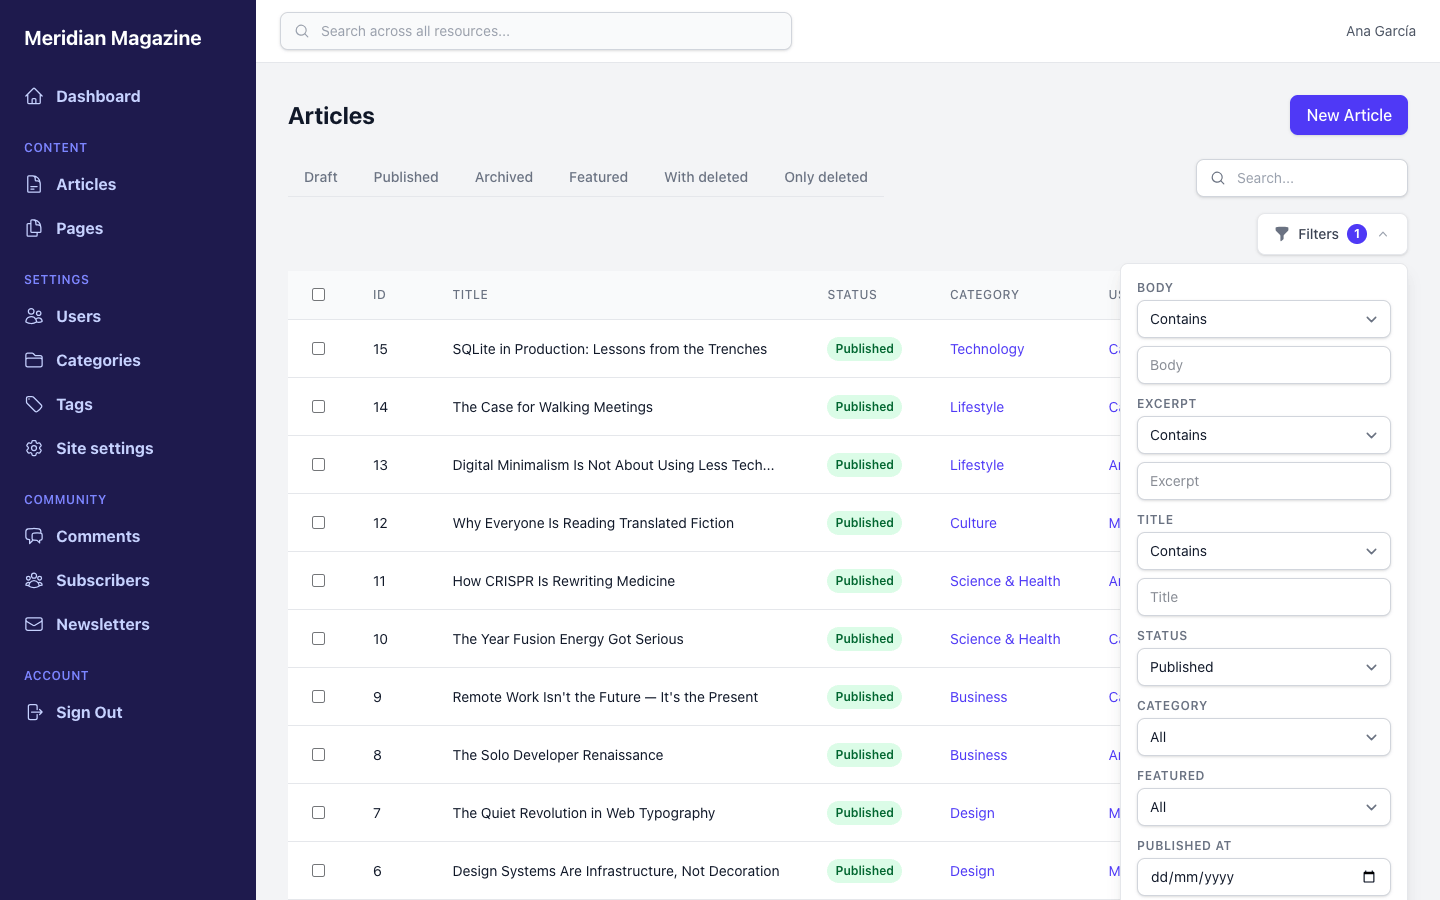
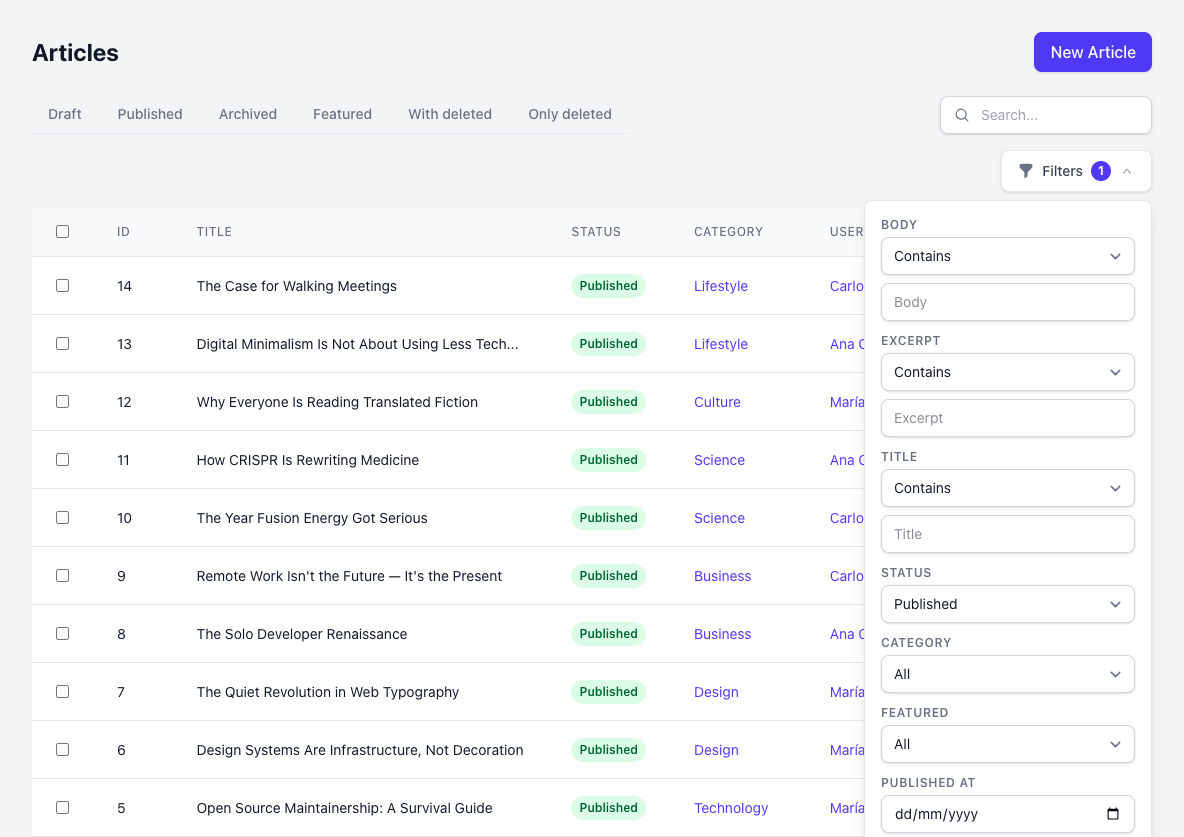
Fix README claims, guide links and screenshots
- The live demo is deployed separately and still runs an older
  IronAdmin, so the README no longer says it runs 0.7.0. The 0.7.0
  things to try moved to "Run it locally"; "Try it live" keeps only
  what works on the deployed demo today.
- Link the guides rendered on GitHub at the v0.7.0 tag instead of the
  docs site subpages, which are unstyled or stubs.
- Describe the filters inferred from the schema separately from the
  declared ones.
- Show the import upsert in the sample CSV with a seeded subscriber.
- Fix the deny_actions wording in "How it's built".
- Add MIT-LICENSE, matching the MIT claim in the README, and link it.
- Crop the screenshots so they stay legible at gallery size, retake the
  dashboard, articles and import preview from fresh seeds, and keep
  /docs/ out of the Docker image.

Claude-Session: https://claude.ai/code/session_015iW7QqdscMBUsp3fkDuszH

diff --git a/README.md b/README.md
@@ -27,7 +27,7 @@
   </a>
 </p>
 
-Meridian Magazine is a fictional online publication. Its whole admin, from the dashboard to the audit log, comes from IronAdmin 0.7.0 and about 390 lines of Ruby (blank lines and comments not counted): nine resource classes, one dashboard, one tool and an initializer. There are no admin controllers in this repository, and the only admin view is the Sign Out tool's page.
+Meridian Magazine is a fictional online publication. In this repository, its whole admin, from the dashboard to the audit log, comes from IronAdmin 0.7.0 and about 390 lines of Ruby (blank lines and comments not counted): nine resource classes, one dashboard, one tool and an initializer. There are no admin controllers in this repository, and the only admin view is the Sign Out tool's page.
 
 - [Try it live](#try-it-live)
 - [Screenshots](#screenshots)
@@ -43,6 +43,9 @@ Meridian Magazine is a fictional online publication. Its whole admin, from the d
 
 Open **[demo.ironadmin.rubylab.app](https://demo.ironadmin.rubylab.app/)** and pick a user. There are no passwords. Each user has a different role, so sign out (**Account → Sign Out** in the sidebar) and try the others.
 
+> [!NOTE]
+> The live demo is deployed separately from this repository (nothing deploys it on push), so it can run an older IronAdmin release than the code here. To see everything this README describes, [run it locally](#run-it-locally).
+
 | User | Role | Content<sup>1</sup> | Users | Site settings |
 |------|------|---------------------|-------|---------------|
 | **Ana García**<br>`ana@meridian.com` | `admin` | Full access | View, create, edit, delete, activate and deactivate | View and edit |
@@ -57,30 +60,20 @@ Every user can open the dashboard, the global search and the audit log at `/admi
 
 Things to try:
 
-- **Publish** or **Archive** an article. Publish asks for a date and whether to feature the article, Archive asks for a required note, and both changes show up in the audit log.
-- Select several comments and run **Bulk reject**, which asks for a rejection note.
-- Import subscribers from **Subscribers → Import**. The preview shows the column mapping and validates each row before anything is saved, and existing emails are updated instead of duplicated. A file like this one works:
-
-  ```csv
-  email,name,confirmed
-  lucia@example.com,Lucía Fernández,true
-  nadia@example.com,Nadia Rahman,false
-  ```
-
 - Type `title:rails` in the Articles search box to search one field, or search every resource from the navbar.
-- Sign in as María and open **Users**: there is no **New User** button, and `/admin/users/new` shows a 403 page inside the admin.
-- Narrow the window below 1024 px to get the off-canvas sidebar.
+- Open the **With deleted** and **Only deleted** tabs on Articles or Comments to see soft-deleted records.
+- Download the subscriber list from `/admin/subscribers/export?format=csv` (or `?format=json`).
 
 ## Screenshots
 
 <table>
   <tr>
     <td width="50%" valign="top">
-      <img src="docs/screenshots/articles-index-filters.png" alt="Articles index with scope tabs (Draft, Published, Archived, Featured, With deleted, Only deleted), green Published status badges, category links and the filter panel open with Contains operators and a Status filter set to Published">
+      <img src="docs/screenshots/articles-index-filters.png" alt="Articles index with scope tabs (Draft, Published, Archived, Featured, With deleted, Only deleted), green Published status badges, category links and the filter panel open: Body, Excerpt and Title filters with Contains operators and a Status filter set to Published">
       <br><sub><b>Articles:</b> scope tabs, status badges and operator filters</sub>
     </td>
     <td width="50%" valign="top">
-      <img src="docs/screenshots/subscribers-import-preview.png" alt="Preview Subscribers Import page: 3 rows detected, a column mapping of email, name and confirmed, and a table of three valid rows with an Import 3 rows button">
+      <img src="docs/screenshots/subscribers-import-preview.png" alt="Preview Subscribers Import page: 3 rows detected, a column mapping of email, name and confirmed, an Import 3 rows button and a table of three valid rows, the last one for new.reader1@gmail.com, a subscriber that already exists and will be updated">
       <br><sub><b>Import preview:</b> column mapping and per-row validation before saving</sub>
     </td>
   </tr>
@@ -99,11 +92,11 @@ Things to try:
 
 ## What this demo shows
 
-Everything below is configured in this repository. Each section starts with links to the IronAdmin guides that cover it.
+Everything below is configured in this repository. Each section starts with links to the IronAdmin guides that cover it, as of the `v0.7.0` tag.
 
 ### Resources and fields
 
-[Fields guide](https://rubylab-app.github.io/iron_admin/guides/fields/) · [Resource DSL: fields](https://rubylab-app.github.io/iron_admin/guides/resource-dsl/#fields)
+[Fields guide](https://github.com/rubylab-app/iron_admin/blob/v0.7.0/docs/guides/fields.md) · [Resources guide: fields](https://github.com/rubylab-app/iron_admin/blob/v0.7.0/docs/guides/resources.md#fields)
 
 | Feature | Where in the demo |
 |---------|-------------------|
@@ -122,15 +115,16 @@ Everything below is configured in this repository. Each section starts with link
 
 ### Search, filters and scopes
 
-[Search](https://rubylab-app.github.io/iron_admin/guides/resource-dsl/#search) · [Filters](https://rubylab-app.github.io/iron_admin/guides/resource-dsl/#filters) · [Scopes](https://rubylab-app.github.io/iron_admin/guides/resource-dsl/#scopes) · [Soft delete](https://rubylab-app.github.io/iron_admin/guides/resource-dsl/#soft-delete-support)
+[Search](https://github.com/rubylab-app/iron_admin/blob/v0.7.0/docs/guides/resources.md#search) · [Filters](https://github.com/rubylab-app/iron_admin/blob/v0.7.0/docs/guides/resources.md#filters) · [Scopes](https://github.com/rubylab-app/iron_admin/blob/v0.7.0/docs/guides/resources.md#scopes) · [Soft delete](https://github.com/rubylab-app/iron_admin/blob/v0.7.0/docs/guides/resources.md#soft-delete-support)
 
 | Feature | Where in the demo |
 |---------|-------------------|
 | Index search | Every resource declares `searchable`; articles search title, body and excerpt |
 | Field queries | `title:rails` in the Articles search box matches titles only |
 | Global search | The navbar searches every resource the user can read; results show each record's title when it has one |
-| String filters with operators | One on every resource: article title, page title, user name, comment author email, newsletter subject, subscriber email, category name, tag name and slug, site setting key |
-| Number filters with operators | Newsletter recipients, page and category position |
+| Filters inferred from the schema | Every string and text column gets a string filter, and every numeric column that is not a foreign key or an enum gets a number filter: article body and excerpt in the screenshot, newsletter sponsorship amount. The password field `api_token` gets none |
+| Declared string filters with operators | Article title, page title, user name, comment author email, newsletter subject, subscriber email, category name, tag name and slug, site setting key |
+| Declared number filters with operators | Newsletter recipients, page and category position |
 | Select filters | Article status and category, page, comment and newsletter status, user role, site setting type |
 | Boolean filters | Article featured, user active, subscriber confirmed |
 | Date range filters | Article published at, comment created at, newsletter sent at, subscriber confirmed at |
@@ -140,7 +134,7 @@ Everything below is configured in this repository. Each section starts with link
 
 ### Actions
 
-[Record actions](https://rubylab-app.github.io/iron_admin/guides/resource-dsl/#record-actions) · [Action forms](https://rubylab-app.github.io/iron_admin/guides/resource-dsl/#action-forms) · [Bulk actions](https://rubylab-app.github.io/iron_admin/guides/resource-dsl/#bulk-actions)
+[Record actions](https://github.com/rubylab-app/iron_admin/blob/v0.7.0/docs/guides/resources.md#record-actions) · [Action forms](https://github.com/rubylab-app/iron_admin/blob/v0.7.0/docs/guides/resources.md#action-forms) · [Bulk actions](https://github.com/rubylab-app/iron_admin/blob/v0.7.0/docs/guides/resources.md#bulk-actions)
 
 | Feature | Where in the demo |
 |---------|-------------------|
@@ -152,7 +146,7 @@ Everything below is configured in this repository. Each section starts with link
 
 ### Associations and nested forms
 
-[Associations](https://rubylab-app.github.io/iron_admin/guides/resource-dsl/#associations) · [Nested forms](https://rubylab-app.github.io/iron_admin/guides/resource-dsl/#nested-forms)
+[Associations](https://github.com/rubylab-app/iron_admin/blob/v0.7.0/docs/guides/resources.md#associations) · [Nested forms](https://github.com/rubylab-app/iron_admin/blob/v0.7.0/docs/guides/resources.md#nested-forms)
 
 | Feature | Where in the demo |
 |---------|-------------------|
@@ -164,7 +158,7 @@ Everything below is configured in this repository. Each section starts with link
 
 ### Dashboard
 
-[Dashboards guide](https://rubylab-app.github.io/iron_admin/guides/dashboards/)
+[Dashboard guide](https://github.com/rubylab-app/iron_admin/blob/v0.7.0/docs/guides/dashboard.md)
 
 | Feature | Where in the demo |
 |---------|-------------------|
@@ -174,7 +168,7 @@ Everything below is configured in this repository. Each section starts with link
 
 ### Authorization
 
-[Authorization](https://rubylab-app.github.io/iron_admin/authorization/) · [Policies](https://rubylab-app.github.io/iron_admin/guides/resource-dsl/#policies) · [CRUD restrictions](https://rubylab-app.github.io/iron_admin/guides/resource-dsl/#crud-restrictions)
+[Authentication and authorization](https://github.com/rubylab-app/iron_admin/blob/v0.7.0/docs/guides/authentication.md) · [Policies](https://github.com/rubylab-app/iron_admin/blob/v0.7.0/docs/guides/resources.md#policies) · [CRUD restrictions](https://github.com/rubylab-app/iron_admin/blob/v0.7.0/docs/guides/resources.md#crud-restrictions) · [403 and 404 pages](https://github.com/rubylab-app/iron_admin/blob/v0.7.0/docs/guides/authentication.md#forbidden-and-not-found-pages)
 
 | Feature | Where in the demo |
 |---------|-------------------|
@@ -186,7 +180,7 @@ Everything below is configured in this repository. Each section starts with link
 
 ### Imports, exports and audit log
 
-[Imports & Exports](https://rubylab-app.github.io/iron_admin/imports-exports/) · [Configuration reference](https://rubylab-app.github.io/iron_admin/reference/)
+[Imports](https://github.com/rubylab-app/iron_admin/blob/v0.7.0/docs/guides/imports.md) · [Exports](https://github.com/rubylab-app/iron_admin/blob/v0.7.0/docs/guides/export.md) · [Audit logging](https://github.com/rubylab-app/iron_admin/blob/v0.7.0/docs/guides/authentication.md#audit-logging) · [Configuration reference](https://github.com/rubylab-app/iron_admin/blob/v0.7.0/docs/reference/configuration.md)
 
 | Feature | Where in the demo |
 |---------|-------------------|
@@ -197,7 +191,7 @@ Everything below is configured in this repository. Each section starts with link
 
 ### Layout, theme and tools
 
-[Theming](https://rubylab-app.github.io/iron_admin/guides/theming/) · [Tools](https://rubylab-app.github.io/iron_admin/tools/)
+[Theming](https://github.com/rubylab-app/iron_admin/blob/v0.7.0/docs/guides/theming.md) · [Custom tools](https://github.com/rubylab-app/iron_admin/blob/v0.7.0/docs/guides/extending.md#custom-tools)
 
 | Feature | Where in the demo |
 |---------|-------------------|
@@ -210,7 +204,7 @@ Everything below is configured in this repository. Each section starts with link
 
 ### New in IronAdmin 0.7.0
 
-The demo runs on 0.7.0, and these 0.7.0 changes are visible in it: the mobile layout, flash messages, 403 and 404 pages, buttons and show-page actions that follow the policy, the import preview (now usable from the UI, with upsert rows validated against the existing record), audit entries for bulk actions and imports with secrets masked, record titles in global search, and the custom `confirm_message` in action dialogs. See the [upgrade guide](https://rubylab-app.github.io/iron_admin/upgrade-guide/) for every change.
+This repository is on 0.7.0 (see [`Gemfile.lock`](Gemfile.lock)), and these 0.7.0 changes are visible when you run it: the mobile layout, flash messages, 403 and 404 pages, buttons and show-page actions that follow the policy, the import preview (now usable from the UI, with upsert rows validated against the existing record), audit entries for bulk actions and imports with secrets masked, record titles in global search, and the custom `confirm_message` in action dialogs. See the [upgrade guide](https://github.com/rubylab-app/iron_admin/blob/v0.7.0/UPGRADING.md) for every change.
 
 ## Run it locally
 
@@ -230,6 +224,22 @@ bin/rails server
 - `bin/rails demo:reset` empties every table and loads the seeds again. [`script/reset_demo.sh`](script/reset_demo.sh) wraps it for cron and defaults to `RAILS_ENV=production`.
 - `bundle exec rspec` runs the system specs in [`spec/system`](spec/system). They use Capybara's `rack_test` driver, so no browser is needed.
 
+Things to try once it is running:
+
+- **Publish** or **Archive** an article. Publish asks for a date and whether to feature the article, Archive asks for a required note, and both changes show up in the audit log.
+- Select several comments and run **Bulk reject**, which asks for a rejection note.
+- Import subscribers from **Subscribers → Import**. The preview shows the column mapping and validates each row before anything is saved. Rows whose email already exists update that subscriber instead of creating a duplicate: in this file, the `new.reader1@gmail.com` row updates Jordan Lee, an unconfirmed subscriber from the seeds, and marks them as confirmed.
+
+  ```csv
+  email,name,confirmed
+  lucia@example.com,Lucía Fernández,true
+  nadia@example.com,Nadia Rahman,false
+  new.reader1@gmail.com,Jordan Lee,true
+  ```
+
+- Sign in as María and open **Users**: there is no **New User** button, and `/admin/users/new` shows a 403 page inside the admin.
+- Narrow the window below 1024 px to get the off-canvas sidebar.
+
 ## How it's built
 
 | Part | Where |
@@ -237,7 +247,7 @@ bin/rails server
 | Resources | [`app/iron_admin/resources/`](app/iron_admin/resources): [articles](app/iron_admin/resources/article_resource.rb), [pages](app/iron_admin/resources/page_resource.rb), [comments](app/iron_admin/resources/comment_resource.rb), [subscribers](app/iron_admin/resources/subscriber_resource.rb), [newsletters](app/iron_admin/resources/newsletter_resource.rb), [users](app/iron_admin/resources/user_resource.rb), [categories](app/iron_admin/resources/category_resource.rb), [tags](app/iron_admin/resources/tag_resource.rb), [site settings](app/iron_admin/resources/site_setting_resource.rb) |
 | Dashboard | [`app/iron_admin/dashboards/admin_dashboard.rb`](app/iron_admin/dashboards/admin_dashboard.rb) |
 | Tool | [`app/iron_admin/tools/logout_tool.rb`](app/iron_admin/tools/logout_tool.rb) and its view, [`app/views/iron_admin/tools/logout/show.html.erb`](app/views/iron_admin/tools/logout/show.html.erb) |
-| Policies | The `policy` blocks in [`user_resource.rb`](app/iron_admin/resources/user_resource.rb) and [`site_setting_resource.rb`](app/iron_admin/resources/site_setting_resource.rb); `deny_actions` there and in [`newsletter_resource.rb`](app/iron_admin/resources/newsletter_resource.rb) |
+| Policies | The `policy` blocks in [`user_resource.rb`](app/iron_admin/resources/user_resource.rb) and [`site_setting_resource.rb`](app/iron_admin/resources/site_setting_resource.rb); `deny_actions` in [`site_setting_resource.rb`](app/iron_admin/resources/site_setting_resource.rb) and [`newsletter_resource.rb`](app/iron_admin/resources/newsletter_resource.rb) |
 | Configuration: title, authentication, pagination, audit log, theme | [`config/initializers/iron_admin.rb`](config/initializers/iron_admin.rb) |
 | Engine mount at `/admin` and the login routes | [`config/routes.rb`](config/routes.rb) |
 | Demo login (pick a user, no password) | [`app/controllers/sessions_controller.rb`](app/controllers/sessions_controller.rb) and [`app/views/sessions/new.html.erb`](app/views/sessions/new.html.erb) |
@@ -293,7 +303,7 @@ To deploy your own copy:
 
 ## Use IronAdmin in your own app
 
-The [IronAdmin documentation](https://rubylab-app.github.io/iron_admin/) is the source of truth. Start with the [Installation guide](https://rubylab-app.github.io/iron_admin/getting-started/installation/) or the [Quick Start](https://rubylab-app.github.io/iron_admin/getting-started/quick-start/). IronAdmin 0.7.0 needs Ruby 3.3 or later, Rails 8.0.4 or later and `tailwindcss-rails` 4.3 or later. In short:
+The [IronAdmin documentation](https://rubylab-app.github.io/iron_admin/) is the source of truth. Start with the [Installation guide](https://github.com/rubylab-app/iron_admin/blob/v0.7.0/docs/getting-started/installation.md) or the [Quick Start](https://github.com/rubylab-app/iron_admin/blob/v0.7.0/docs/getting-started/quick-start.md). IronAdmin 0.7.0 needs Ruby 3.3 or later, Rails 8.0.4 or later and `tailwindcss-rails` 4.3 or later. In short:
 
 ```bash
 bundle add iron_admin
@@ -319,4 +329,4 @@ From there, the files in this repository are working examples: [action forms and
 
 ## License
 
-This demo application is open source under the [MIT License](https://opensource.org/licenses/MIT). For the IronAdmin gem license, see the [IronAdmin repository](https://github.com/rubylab-app/iron_admin).
+This demo application is open source under the [MIT License](MIT-LICENSE). For the IronAdmin gem license, see the [IronAdmin repository](https://github.com/rubylab-app/iron_admin).
